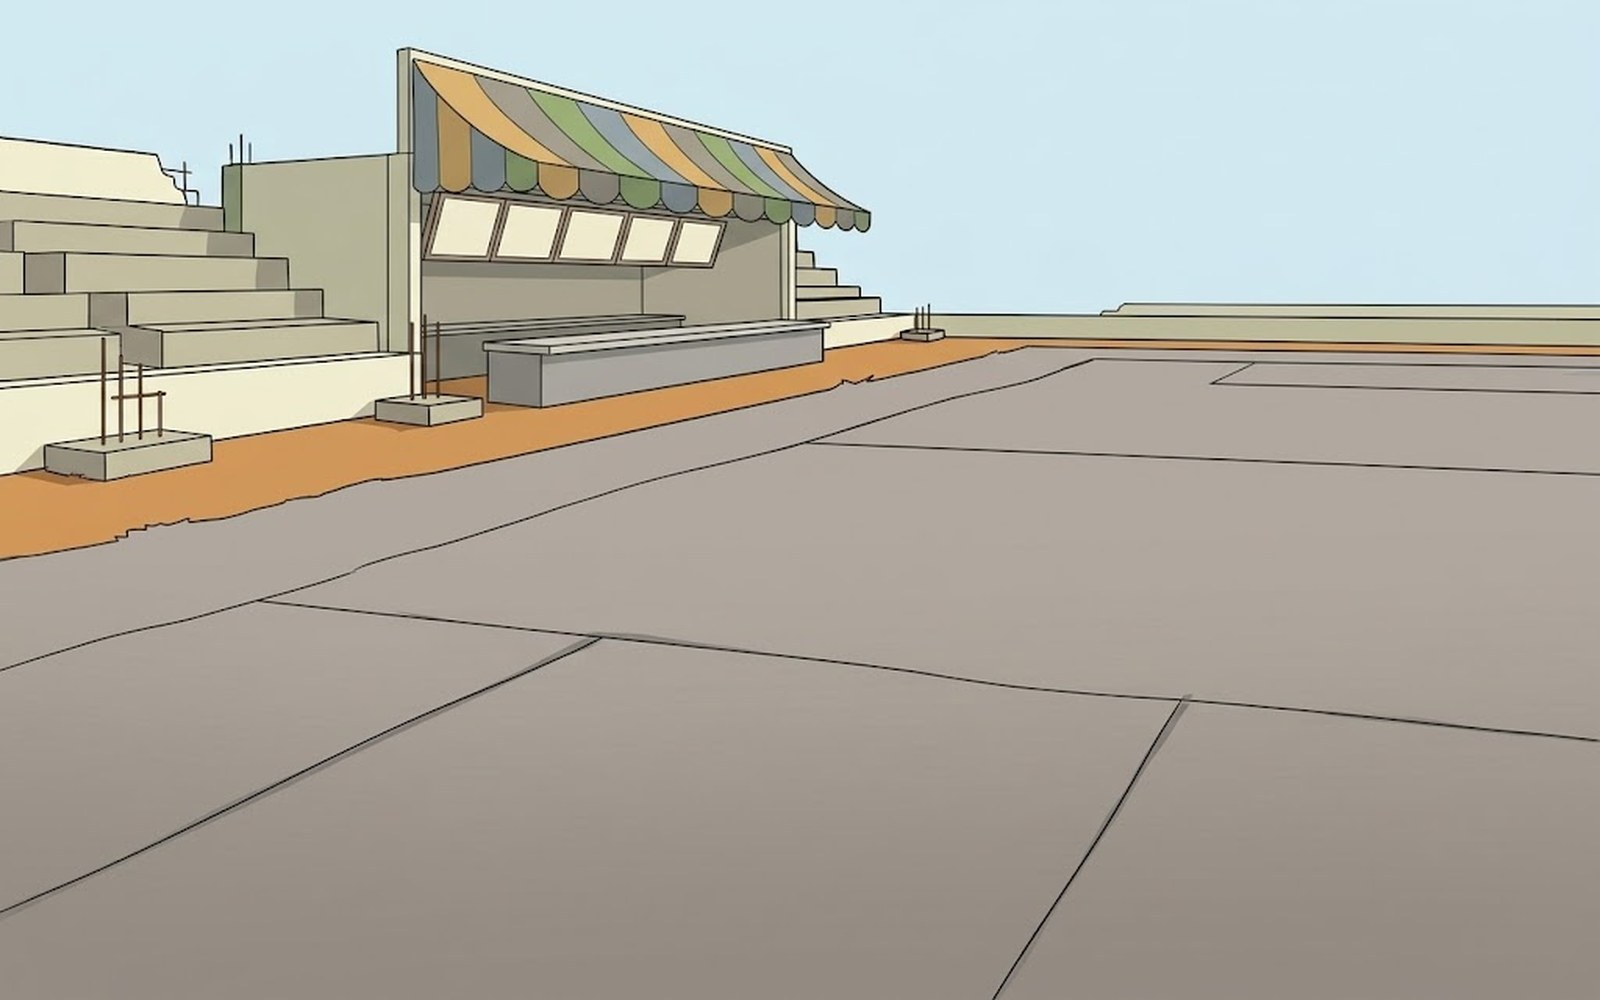
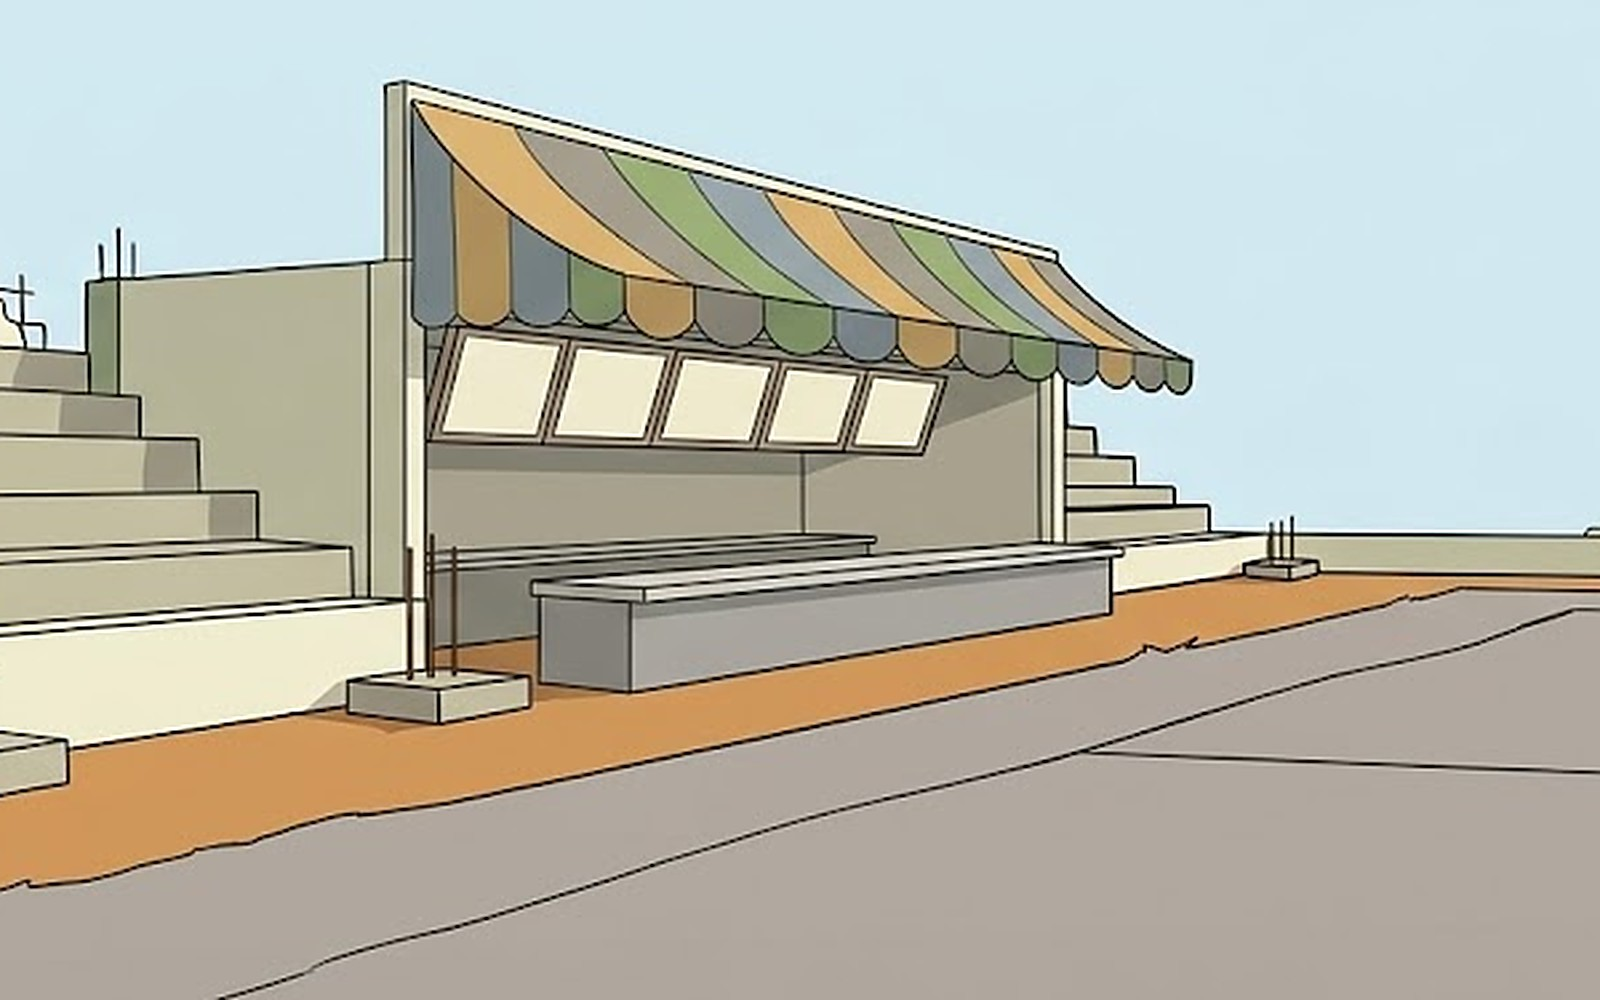
Football: closer view of the snack stand, food sized to its counter
Claude-Session: https://claude.ai/code/session_014jnUeyKMqPRnHWDHekunpA

diff --git a/football/data.js b/football/data.js
@@ -38,9 +38,9 @@ const FB = (() => {
     speaker: { ...P('fans', 'רמקול', 'speaker', 1.672, 1000, 185, 62, 5), slot: true },
     screen: { ...P('fans', 'טלוויזיה', 'screen', .878, 520, 150, 180, 4), slot: true },
     // the snack stand: the food stands on the counter
-    hamburger: { ...P('snack', 'המבורגר', 'hamburger', .956, 560, 288, 110), slot: true },
-    popcorn: { ...P('snack', 'פופקורן', 'popcorn', 1.429, 662, 282, 80), slot: true },
-    waffle: { ...P('snack', 'ופל', 'waffle', .986, 765, 292, 100), slot: true },
+    hamburger: { ...P('snack', 'המבורגר', 'hamburger', .956, 620, 484, 190), slot: true },
+    popcorn: { ...P('snack', 'פופקורן', 'popcorn', 1.429, 800, 474, 140), slot: true },
+    waffle: { ...P('snack', 'ופל', 'waffle', .986, 980, 490, 170), slot: true },
     // the celebration: the cup on the winners' podium, the cake on the table, balloons by the stage, fireworks in the sky
     cup: { ...P('party', 'גביע', 'cup', 1.386, 845, 456, 110, 8), slot: true },
     cake: { ...P('party', 'עוגה', 'cake', 1.062, 668, 388, 120, 8), slot: true },
